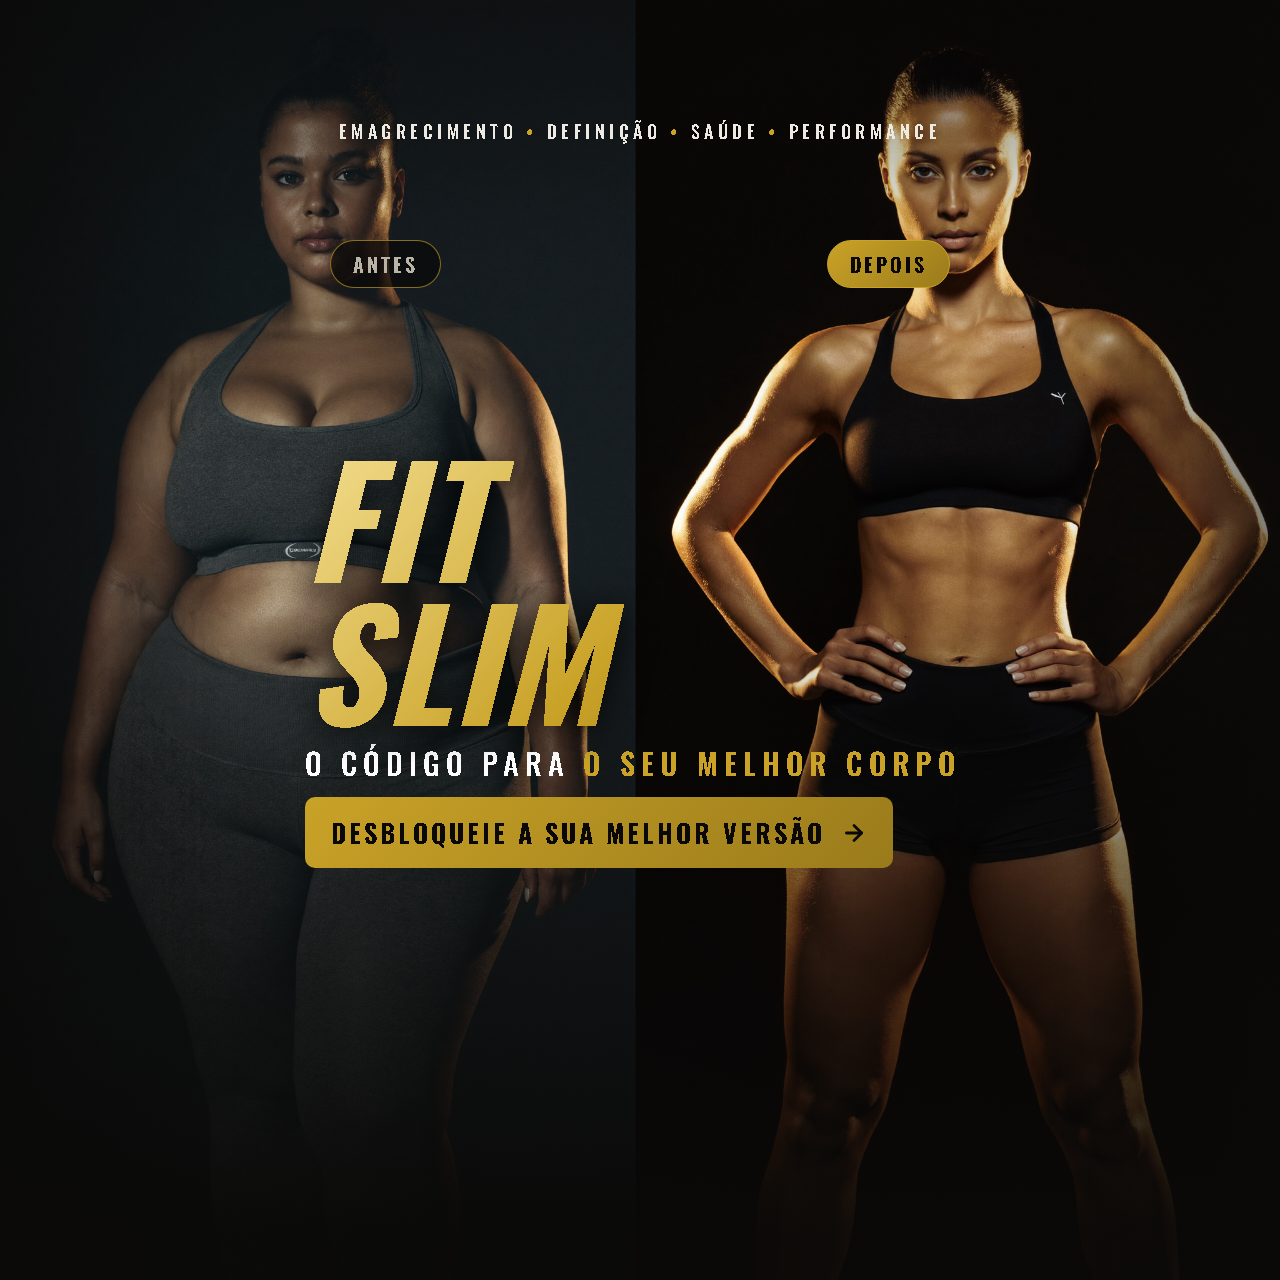
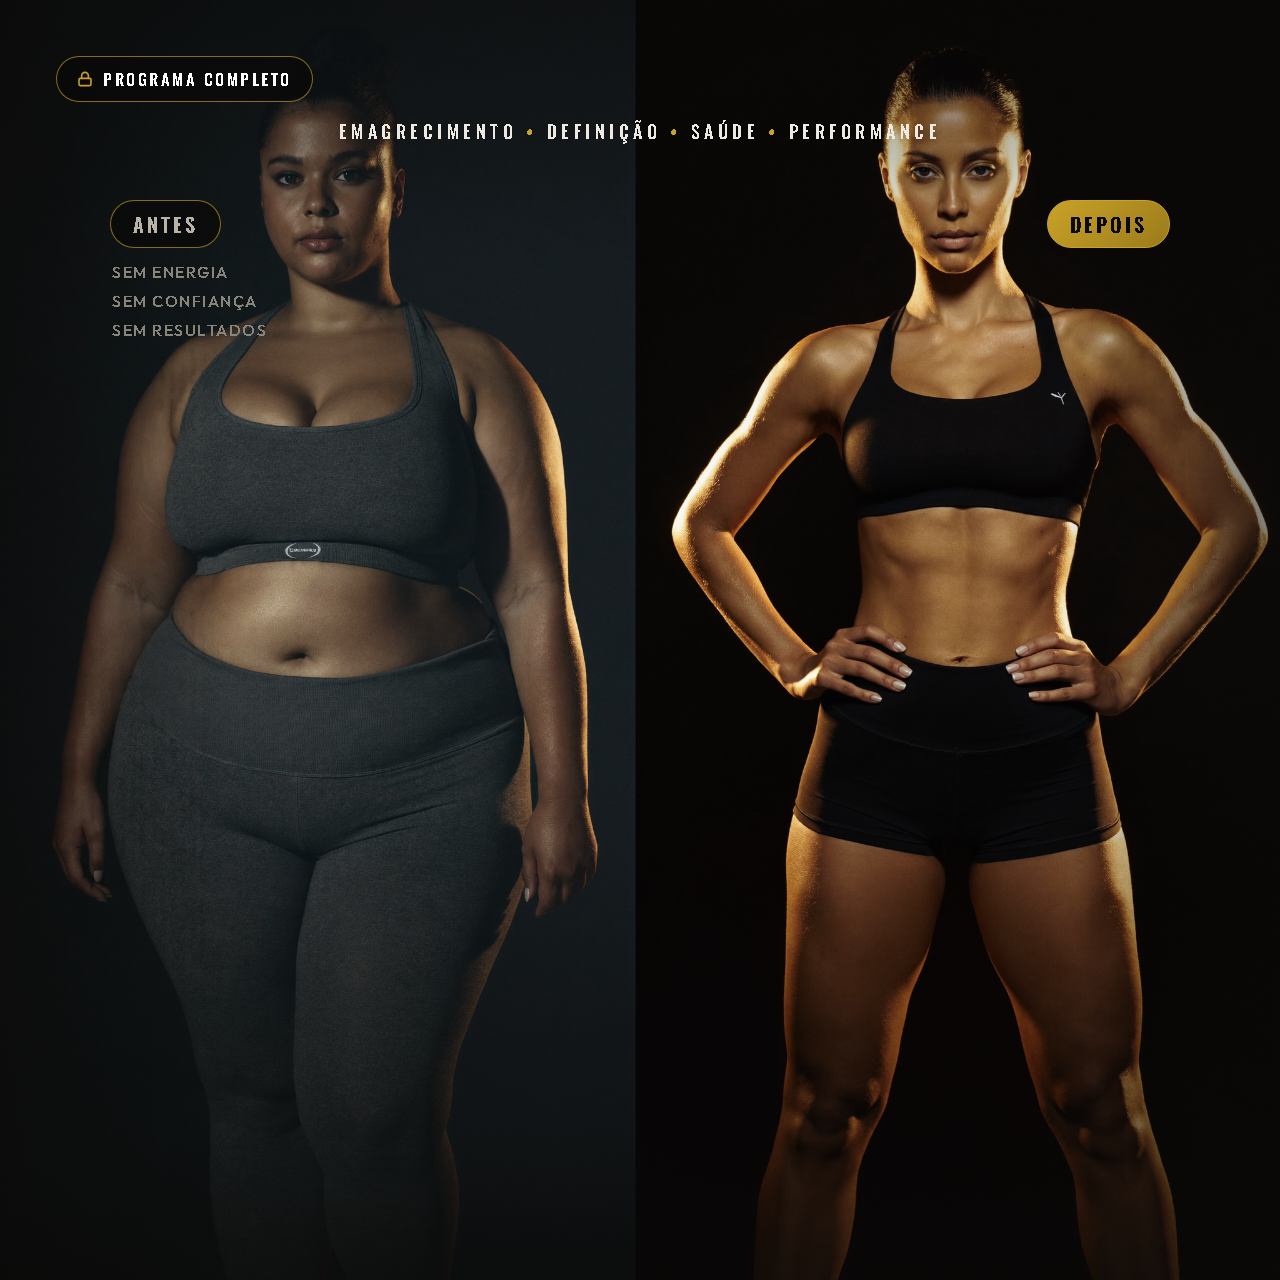
Fit Slim: capa limpa sem frases + botão Voltar lembra a tela de origem (pedido do cliente)
- Nova capa do Fit Slim no estilo da referência: sem título/subtítulo/
  CTA grandes sobre a imagem (o texto do modal abaixo já descreve o
  protocolo); mantém as tags de categoria no topo, adiciona selo
  'PROGRAMA COMPLETO' com cadeado e sublinhas SEM ENERGIA / SEM
  CONFIANÇA / SEM RESULTADOS sob a tag ANTES
- Botão VOLTAR do protocolo (tela mobile) agora lembra se o usuário
  veio da tela de Programas ou da Home: abrindo um protocolo a partir
  de Programas, Voltar retorna para Programas (não pula direto pra
  Home); de lá, o ícone da logo no cabeçalho continua levando pra Home
- Testado por DOM: os dois fluxos de origem (home/programas) e a
  cadeia completa de retorno, 5/5 passando

diff --git a/banners/banner-fitslim.html b/banners/banner-fitslim.html
@@ -10,29 +10,24 @@
   html,body{ width:1280px; height:1280px; overflow:hidden; }
   .stage{ position:relative; width:1280px; height:1280px; background:#0A0908; font-family:'Oswald',sans-serif; overflow:hidden; }
   .foto{ position:absolute; inset:0; width:100%; height:100%; object-fit:cover; object-position:50% 18%; }
-  .fade-b{ position:absolute; inset:0; background:linear-gradient(180deg, rgba(10,9,8,0.55) 0%, rgba(10,9,8,0.05) 20%, rgba(10,9,8,0) 45%, rgba(10,9,8,0.55) 74%, rgba(10,9,8,0.94) 96%); }
+  .fade-b{ position:absolute; inset:0; background:linear-gradient(180deg, rgba(10,9,8,0.55) 0%, rgba(10,9,8,0.05) 20%, rgba(10,9,8,0) 60%, rgba(10,9,8,0.45) 88%, rgba(10,9,8,0.75) 100%); }
   .fade-x{ position:absolute; inset:0; background:linear-gradient(90deg, rgba(10,9,8,0.55) 0%, rgba(10,9,8,0) 18%, rgba(10,9,8,0) 82%, rgba(10,9,8,0.55) 100%); }
 
   .kicker{ position:absolute; top:118px; left:50%; transform:translateX(-50%); z-index:3; white-space:nowrap;
            font-weight:500; font-size:18px; letter-spacing:4.5px; color:#EDEAE3; }
   .kicker b{ color:#C9A227; font-weight:500; }
 
+  .lock{ position:absolute; top:56px; left:56px; z-index:3; display:inline-flex; align-items:center; gap:10px;
+         padding:10px 20px; border-radius:999px; border:1.5px solid rgba(201,162,39,0.65); background:rgba(10,9,8,0.72);
+         font-weight:600; font-size:16px; letter-spacing:2.5px; color:#fff; }
+
   .tag{ position:absolute; z-index:3; padding:8px 22px; border-radius:999px; font-weight:600; font-size:20px;
         letter-spacing:3px; border:1.5px solid rgba(201,162,39,0.65); background:rgba(10,9,8,0.72); }
-  .tag.antes{ left:330px; top:240px; color:#B9B3A8; }
-  .tag.depois{ right:330px; top:240px; color:#0A0908; background:linear-gradient(135deg,#C9A227,#9A7B1B); border-color:#C9A227; }
+  .tag.antes{ left:110px; top:200px; color:#B9B3A8; }
+  .tag.depois{ right:110px; top:200px; color:#0A0908; background:linear-gradient(135deg,#C9A227,#9A7B1B); border-color:#C9A227; }
 
-  .bloco{ position:absolute; left:305px; bottom:495px; z-index:3; }
-  .titulo{ font-weight:700; font-style:italic; font-size:150px; line-height:0.95; letter-spacing:2px;
-           background:linear-gradient(135deg,#F3DD8E,#C9A227 55%,#8C6D1A);
-           -webkit-background-clip:text; background-clip:text; color:transparent;
-           filter:drop-shadow(0 4px 18px rgba(0,0,0,0.85)); }
-  .sub{ margin-top:10px; font-weight:500; font-size:30px; letter-spacing:6px; color:#fff; }
-  .sub b{ color:#C9A227; font-weight:600; }
-
-  .frase{ position:absolute; left:305px; bottom:412px; z-index:3; display:inline-flex; align-items:center; gap:16px;
-          padding:16px 26px; border-radius:10px; background:linear-gradient(135deg,#C9A227,#9A7B1B);
-          font-weight:700; font-size:26px; letter-spacing:3px; color:#0A0908; }
+  .sublines{ position:absolute; left:112px; top:262px; z-index:3; display:flex; flex-direction:column; gap:9px; }
+  .sublines div{ font-family:'Outfit',sans-serif; font-weight:500; font-size:16px; letter-spacing:1.5px; color:#8A857B; }
 </style>
 </head>
 <body>
@@ -43,16 +38,18 @@
 
   <div class="kicker">EMAGRECIMENTO <b>•</b> DEFINIÇÃO <b>•</b> SAÚDE <b>•</b> PERFORMANCE</div>
 
+  <div class="lock">
+    <svg width="16" height="16" viewBox="0 0 24 24" fill="none" stroke="#C9A227" stroke-width="2.4" stroke-linecap="round" stroke-linejoin="round"><rect x="3" y="11" width="18" height="11" rx="2" ry="2"></rect><path d="M7 11V7a5 5 0 0 1 10 0v4"></path></svg>
+    PROGRAMA COMPLETO
+  </div>
+
   <div class="tag antes">ANTES</div>
   <div class="tag depois">DEPOIS</div>
 
-  <div class="bloco">
-    <div class="titulo">FIT<br>SLIM</div>
-    <div class="sub">O CÓDIGO PARA <b>O SEU MELHOR CORPO</b></div>
-  </div>
-
-  <div class="frase">DESBLOQUEIE A SUA MELHOR VERSÃO
-    <svg width="26" height="26" viewBox="0 0 24 24" fill="none" stroke="#0A0908" stroke-width="2.6" stroke-linecap="round" stroke-linejoin="round"><line x1="5" y1="12" x2="19" y2="12"></line><polyline points="12 5 19 12 12 19"></polyline></svg>
+  <div class="sublines">
+    <div>SEM ENERGIA</div>
+    <div>SEM CONFIANÇA</div>
+    <div>SEM RESULTADOS</div>
   </div>
 </div>
 </body>

diff --git a/index.html b/index.html
@@ -398,7 +398,7 @@
   <div id="m-detail" hidden>
     <div style="position:fixed; inset:0; left:50%; transform:translateX(-50%); width:100%; max-width:440px; z-index:55; background:var(--c-bg); overflow-y:auto; animation:lgFade 0.25s ease;">
       <header style="position:sticky; top:0; z-index:5; display:flex; align-items:center; justify-content:space-between; padding:14px 18px; background:var(--c-bg); border-bottom:1px solid rgba(var(--c-primary-rgb),0.18);">
-        <button data-screen="home" style="background:none; border:none; color:var(--c-primary); cursor:pointer; display:flex; align-items:center; gap:8px; font-family:'Oswald',sans-serif; font-weight:500; letter-spacing:1.5px; font-size:13px;"><i data-lucide="arrow-left" width="20" height="20"></i> VOLTAR</button>
+        <button id="m-detail-back" data-screen="home" style="background:none; border:none; color:var(--c-primary); cursor:pointer; display:flex; align-items:center; gap:8px; font-family:'Oswald',sans-serif; font-weight:500; letter-spacing:1.5px; font-size:13px;"><i data-lucide="arrow-left" width="20" height="20"></i> VOLTAR</button>
         <button data-menu="open" aria-label="Abrir menu" style="background:none; border:none; color:var(--c-primary); cursor:pointer; display:flex;"><i data-lucide="menu" width="24" height="24"></i></button>
       </header>
       <img id="m-detail-img" src="assets/detalhe.webp" alt="" style="width:100%; height:240px; object-fit:cover; object-position:50% 20%; display:block;">
@@ -1032,6 +1032,9 @@ function showScreen(name){
 
 function openDetail(id){
   if (!fillDetail(id)) return;
+  var cameFromProgramas = !el('m-programas').hidden;
+  var backBtn = el('m-detail-back');
+  if (backBtn) backBtn.setAttribute('data-screen', cameFromProgramas ? 'programas' : 'home');
   setMenu(false);
   el('m-programas').hidden = true;
   el('m-detail').hidden = false;
